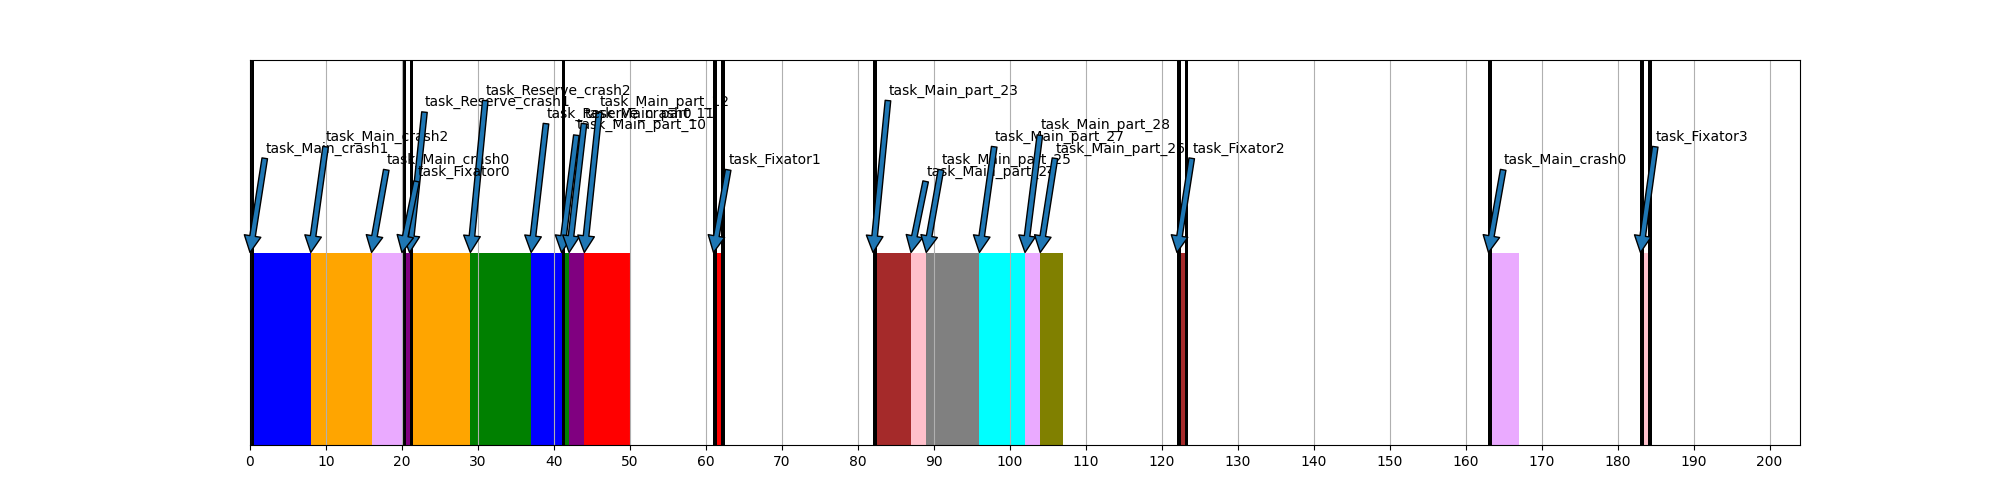
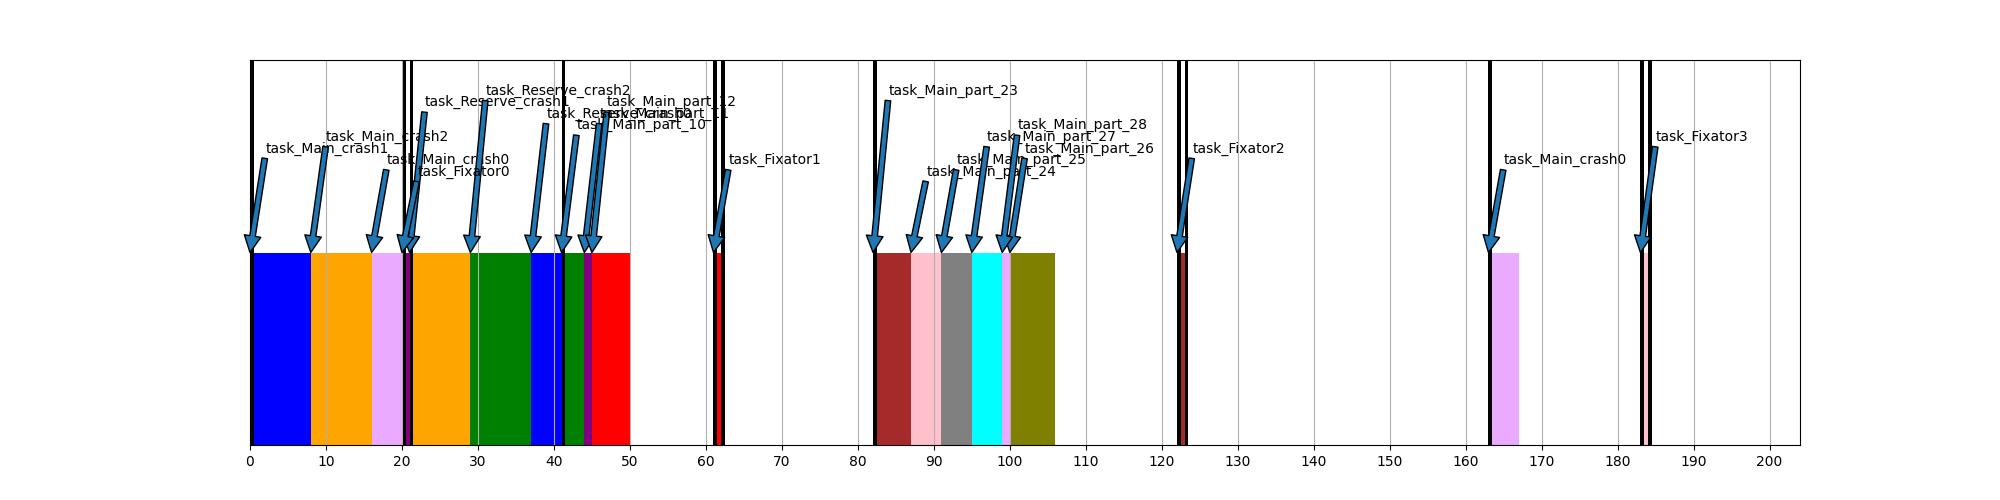
Added renaming for separated tasks

Changed region(s): [[0.465, 0.24, 0.589, 0.9], [0.279, 0.18, 0.372, 0.9]]

diff --git a/First_run.py b/First_run.py
@@ -12,6 +12,8 @@ import pickle
 # DEFINING SOME VARAIBLES TO MAKE MODELLING SYSTEM ABLE TO RUN 
 # ----------------------------------------------------------------------
 TASK_CRASHED_ID = 0
+# use it only in a case when task is separated on two part in different partitions (0 or 1 means left or right)
+PART_OF_TASK = 0 
 MF_PERIOD = 100
 FIXATOR_TIME = 1
 
@@ -58,6 +60,44 @@ class Window_elem():
 
     def __str__(self) -> str:
         return "Window:\n" + "\tapp: " + str(self.application) + "\n" + "\tTime: " + str(self.time) + "\n" + "\tNumber: " + str(self.partition_number)
+
+
+def rename_separate_tasks(DICT):
+    DICT_NEW = DICT.copy()
+    for tsk in DICT:
+        if len(DICT[tsk]) == 4:
+            DICT_NEW[tsk + "__p1"] = DICT_NEW[tsk][0:2]
+            DICT_NEW[tsk + "__p2"] = DICT_NEW[tsk][2:4]
+            del DICT_NEW[tsk]
+    return DICT_NEW
+
+
+def create_map_window_to_task_name(DICT, TASK_INTERVALS, WINDOWS_SCHEDULE) -> None:
+    for tsk in TASK_INTERVALS:
+        SEPARATE_TASK = False
+        if len(TASK_INTERVALS[tsk]) > 2: 
+            SEPARATE_TASK = True
+        if SEPARATE_TASK:  
+            t_begin_1 = TASK_INTERVALS[tsk][0]
+            t_begin_2 = TASK_INTERVALS[tsk][2]
+            fst_found = False
+            for num_win in range(len(WINDOWS_SCHEDULE)):
+                if not fst_found:
+                    if int(t_begin_1) > int(WINDOWS_SCHEDULE[num_win][0]):
+                        DICT[WINDOWS_SCHEDULE[num_win]] = tsk + "__p1"
+                        fst_found = True
+                else:
+                    if int(t_begin_2) > int(WINDOWS_SCHEDULE[num_win][0]):
+                        DICT[WINDOWS_SCHEDULE[num_win]] = tsk + "__p2"
+                        break
+        else:
+            t_begin = TASK_INTERVALS[tsk][0]
+            t_end = TASK_INTERVALS[tsk][1]
+            for num_win in range(len(WINDOWS_SCHEDULE)):
+                if int(t_begin) > int(WINDOWS_SCHEDULE[num_win][0]):
+                    DICT[WINDOWS_SCHEDULE[num_win]] = tsk
+                    break
+                    
 
 def create_double_visualization(filename1, filename2, task_crasshed_id): 
     img = Image.new('RGB', (256*10, 256*4))
@@ -297,6 +337,21 @@ parsing = parser_.INTERVAL()
 """Here specify input file."""
 inter = parsing.create_int("result.txt")
 parsing.print_intervals()
+
+
+
+# CREATING MAP FROM WINDOW AS TIME INTERVAL TO THE NAME OF THE TASK (HERE LLEFT PARTS RENAME TO <tsk_name>__p1 and RIGHT to <tsk_name>__p2)
+# --------------------------------------------------------------------------------------------------------------
+
+MAP_WINDOW_TASK = {}
+create_map_window_to_task_name(DICT=MAP_WINDOW_TASK, TASK_INTERVALS=inter, WINDOWS_SCHEDULE=WINDOWS)
+
+# here we separate tasks with two parts to the new two tasks
+separate_tak_intervals = rename_separate_tasks(inter)
+print(separate_tak_intervals)
+
+inter = separate_tak_intervals
+
 
 # 
 # --------------------------------------------------------------------------------------------------------------
